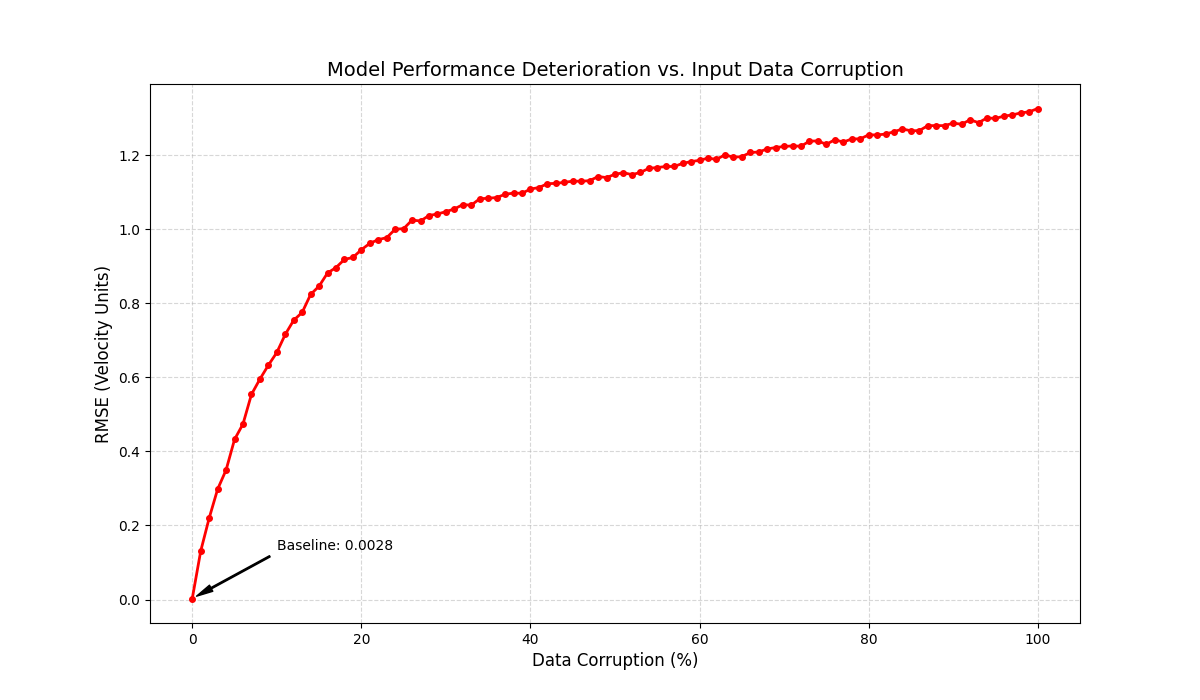
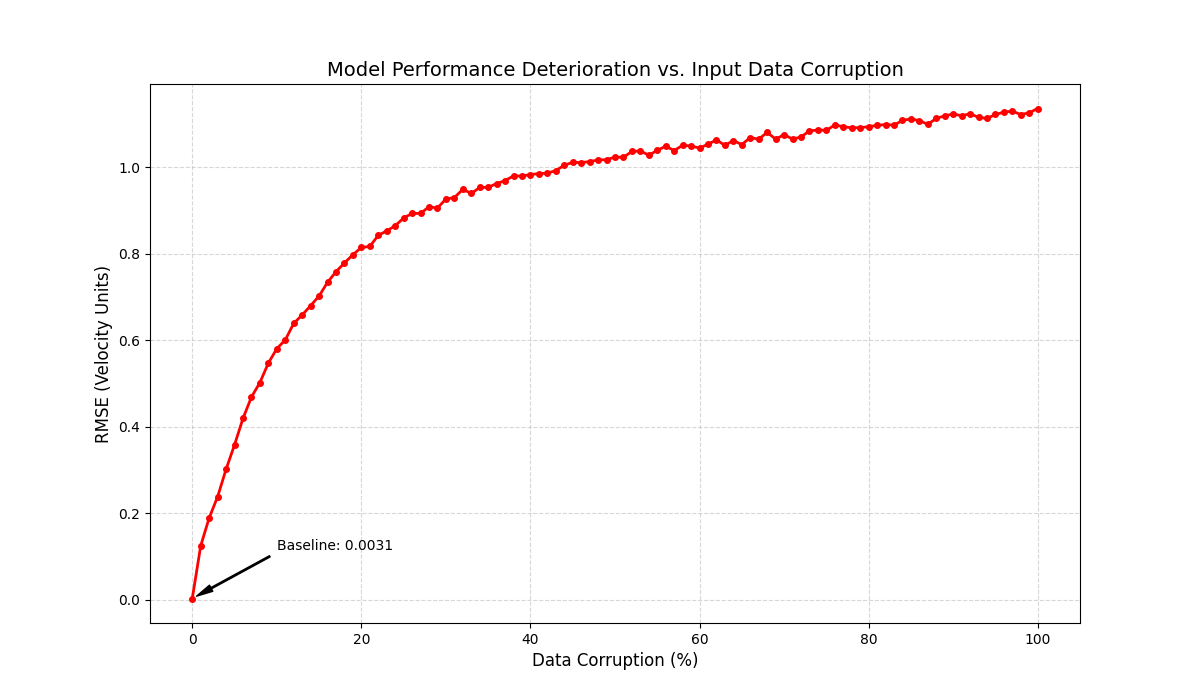
More documentation and fixes.

diff --git a/transformer/Ordered_300_EvaluateTransformer_v1_with_datacorruption.py b/transformer/Ordered_300_EvaluateTransformer_v1_with_datacorruption.py
@@ -75,7 +75,7 @@ class Config:
 
 # --- Dataset ---
 class EvalDataset(torch.utils.data.Dataset):
-    def __init__(self, h5_path, max_samples=None):
+    def __init__(self, h5_path, max_samples=None, random_seed=None):
         self.h5_path = h5_path
         self._file = None
         if not os.path.exists(h5_path):
@@ -83,10 +83,16 @@ class EvalDataset(torch.utils.data.Dataset):
         with h5py.File(self.h5_path, 'r') as f:
             total_available = f['data'].shape[0]
             self.has_originals = 'originals' in f
+            
             if max_samples is not None:
                 self.length = min(max_samples, total_available)
+                # Select random indices from the entire available set
+                if random_seed is not None:
+                    np.random.seed(random_seed)
+                self.indices = np.random.choice(total_available, self.length, replace=False)
             else:
                 self.length = total_available
+                self.indices = np.arange(total_available)
             
     def __len__(self):
         return self.length
@@ -94,12 +100,16 @@ class EvalDataset(torch.utils.data.Dataset):
     def __getitem__(self, idx):
         if self._file is None:
             self._file = h5py.File(self.h5_path, 'r')
-        data = self._file['data'][idx] # (8, 26, 52)
+        
+        # Map the requested idx to our sampled indices
+        real_idx = self.indices[idx]
+        
+        data = self._file['data'][real_idx] # (8, 26, 52)
         # Flatten time and space: (208, 52)
         data = data.reshape(Config.SEQ_LEN, Config.INPUT_DIM)
         
         if self.has_originals:
-            orig = self._file['originals'][idx] # (26, 3)
+            orig = self._file['originals'][real_idx] # (26, 3)
             return torch.from_numpy(data).float(), torch.from_numpy(orig).float()
             
         return torch.from_numpy(data).float(), torch.zeros((Config.NUM_X, 3))
@@ -170,7 +180,7 @@ def load_models():
 def corrupt_data(data, corruption_fraction):
     """
     Corrupt the latent part of the input (first 47 dimensions) 
-    by replacing a fraction of values with random values between 0 and 1.
+    by replacing a fraction of values with random values between -1 and 1.
     data: (B, T, 52) tensor
     """
     if corruption_fraction <= 0:
@@ -187,8 +197,9 @@ def corrupt_data(data, corruption_fraction):
         # We'll flatten the B, T, LATENT_DIM indices
         flat_indices = torch.randperm(B * T * Config.LATENT_DIM)[:num_elements_to_corrupt]
         
-        # Random values between 0 and 1
-        random_values = torch.rand(num_elements_to_corrupt, device=data.device)
+        # Random values between -1 and 1
+        # torch.rand gives [0, 1), so 2*torch.rand-1 gives [-1, 1)
+        random_values = 2 * torch.rand(num_elements_to_corrupt, device=data.device) - 1
         
         # Reshape corrupted_data to easily apply indices
         # We only care about the first LATENT_DIM columns
@@ -269,8 +280,12 @@ def main():
     try:
         data_path = Config.get_data_path()
         print(f"Using dataset: {Colors.YELLOW}{data_path}{Colors.RESET}")
-        dataset = EvalDataset(data_path, max_samples=Config.LIMIT_SAMPLES)
-        loader = torch.utils.data.DataLoader(dataset, batch_size=32, shuffle=False)
+        
+        # Pass None to random_seed for truly different samples each run, 
+        # or a fixed number for reproducibility.
+        dataset = EvalDataset(data_path, max_samples=Config.LIMIT_SAMPLES, random_seed=None)
+        
+        loader = torch.utils.data.DataLoader(dataset, batch_size=32, shuffle=True)
     except Exception as e:
         print(f"{Colors.RED}Error loading dataset: {e}{Colors.RESET}")
         return

diff --git a/Paper_Methods.md b/Paper_Methods.md
@@ -1,0 +1,35 @@
+### Methods: Data Generation and Pre-processing
+
+#### Experimental Setup and Data Acquisition
+Flow *velocity* data were generated at the [Fluid-Structure Interaction (FSI) Lab](https://fsilab.sites.umassd.edu/about/) at the University of Massachusetts Dartmouth. Quantitative flow measurements were acquired using a Time-Resolved Volumetric Particle Tracking *Velocimetry* (TR-PTV) system. The experimental setup utilized a LaVision configuration consisting of:
+*   **Illumination:** A 300 × 100 mm² LED array (FLASHLIGHT 300).
+*   **Imaging:** A four-camera Minishaker box equipped with 8, 12, and 16 mm focal length lenses.
+*   **Synchronization:** Cameras and illumination were triggered simultaneously via a LaVision Programmable Timing Unit (PTU).
+*   **Data Acquisition:** High-speed video was acquired using Sony IMX252LLR/LQR CMOS cameras (2048×1088 resolution) and recorded uncompressed via a Core DVR.
+
+The raw image sequences were processed using the **Shake The Box (STB)** algorithm within the DaVis 10 software environment. This enabled time-resolved, three-dimensional, three-component (3D-3C) Lagrangian particle *velocity* measurements $\langle v_x, v_y, v_z \rangle$ within the volume.
+
+#### Data Preparation and Quality Assurance
+Prior to model training, the raw Lagrangian data underwent a multi-stage pre-processing pipeline to ensure spatial consistency and numerical stability:
+
+1.  **Health Assessment:** Each data file was audited to verify the presence of a complete temporal sequence ($T = \{1, \dots, 1200\}$) and consistent row counts.
+2.  **Statistical Analysis of Extremes:** Global extrema for all *velocity* components ($v_x, v_y, v_z$) were determined to establish bounds for normalization.
+3.  **Data Type Correction:** To optimize computational efficiency, spatial/temporal coordinates were cast to 32-bit integers, and *velocity* components to 32-bit floats.
+4.  **Normalization:** *Velocity* components were scaled to a $[0, 1]$ range using a linear transformation based on global extremes (approximately $-1.98$ to $2.64$ m/s), ensuring stable convergence during neural network training.
+
+#### Spatial Mapping and Cubic Reconstruction
+To transition from discrete point measurements to a structured representation suitable for deep learning, the data were reorganized into local volumetric neighborhoods.
+
+As illustrated in **Figure 1** (*experimental_box.png*), a sampling volume was defined by trimming the edges of the total measurement domain. This trimming ensures that every selected centroid possesses a complete surrounding neighborhood.
+
+For each valid centroid, a $5 \times 5 \times 5$ coordinate neighborhood was established (**Figure 2**, *mapping_visualization.png*). This neighborhood consists of the target centroid and its 124 nearest neighbors across the grid. The 3D-3C *velocity* components for all 125 points were gathered and flattened into a 375-dimensional feature vector $\mathbf{V} \in \mathbb{R}^{375}$ (125 points $\times$ 3 *velocity* components). These "*velocity* cubes" capture the local flow structure, providing the high-dimensional input required for manifold learning.
+
+---
+
+### Visualizations and Artifacts
+The following high-resolution artifacts (1200 DPI) have been generated in the `Documentation/` directory:
+
+1.  `Documentation/experimental_box.png`: A 3D schematic of the TR-PTV measurement domain, identifying the "Valid Sampling Region" (interior volume) and centroids used for data extraction.
+2.  `Documentation/mapping_visualization.png`: A 3D breakdown of the $5 \times 5 \times 5$ sampling neighborhood, illustrating the mapping of 125 spatial points to the 375-dimensional feature vector $\mathbf{V}$.
+
+The generating script, `generate_mapping_viz.py`, is available in the project root and is configured for publication-quality output.

diff --git a/Paper_AE.md b/Paper_AE.md
@@ -1,0 +1,40 @@
+### Paper: Residual Autoencoder with Squeeze-and-Excitation (Model GEN3 05)
+
+#### Architecture Overview
+The core of this dimensionality reduction task is the `Model_GEN3_05_AttentionSE` architecture, a Residual Autoencoder (AE) that incorporates Squeeze-and-Excitation (SE) blocks for enhanced feature recalibration. The model is designed to compress high-dimensional fluid dynamics velocity fields into a compact latent representation while maintaining high reconstruction fidelity.
+
+- **Algorithm**: Residual Autoencoder with Squeeze-and-Excitation (AttentionSE).
+- **Compression Strategy**: Hierarchical dimensionality reduction using fully connected layers interspersed with SEResidualBlocks.
+- **Input Dimension**: 375 floats (representing the flattened velocity field).
+- **Latent Dimension**: 47 floats.
+- **Compression Ratio**: 87.5% (approx. 1:8 compression).
+- **Activation Functions**: 
+    - **ELU (Exponential Linear Unit)** for intermediate layers to maintain gradient flow.
+    - **Tanh** at the bottleneck to bound the latent space to [-1, 1].
+    - **Linear** (no activation) at the output to allow for the full range of physical velocity values.
+
+#### Key Architectural Components
+1.  **Residual Connections**: Each stage of the encoder and decoder utilizes skip connections to facilitate gradient flow and allow the network to learn incremental refinements at multiple scales.
+2.  **Squeeze-and-Excitation (SE) Blocks**: Integrated within the residual blocks, these components recalibrate feature importance by modeling inter-dependencies between "channels" (features). This allows the model to focus on the most energetically significant flow structures.
+3.  **Layer Normalization**: Applied within each residual block to stabilize training and improve convergence.
+
+#### Training and Data Sampling
+The model was trained using a large-scale dataset sampled to ensure robustness across various flow conditions.
+
+- **Data Sampling Strategy**: 
+    - Training and validation datasets were built by sampling rows uniformly at random from a large pool of existing data files (stored as `.pkl.gz`).
+    - The `EfficientDataLoader` was utilized to perform this sampling without being IO-bound, drawing a default of **2,000,000 rows** for the training set and **2,000,000 rows** for the validation set.
+    - This approach ensures that both sets are representative of the global flow manifold.
+- **Optimizer**: Adam optimizer with a learning rate of `1e-4`.
+- **Batch Size**: 4096.
+- **Epochs**: 1000.
+- **Loss Function**:
+    - **Primary Loss**: Mean Squared Error (MSE) between the input and reconstructed velocity fields.
+    - **Regularization**: A very weak L2 regularization ($ \lambda = 0.00005 $) applied to the latent space ($ \|z\|^2 $) to prevent latent code explosion without sacrificing reconstruction accuracy.
+
+#### Performance Metrics
+The model achieved exceptional reconstruction accuracy, as evidenced by the Root Mean Squared Error (RMSE) across the validation sample.
+
+- **Final Validation RMSE (Normalized)**: ~0.00077 (Global average across files).
+- **Final Validation RMSE (Raw Units)**: ~0.00036 (Global average across files).
+- **Peak Performance**: The "AttentionSE" model was identified as the winning architecture due to its superior ability to maintain performance as data variability increased, outperforming standard baseline residual models.
